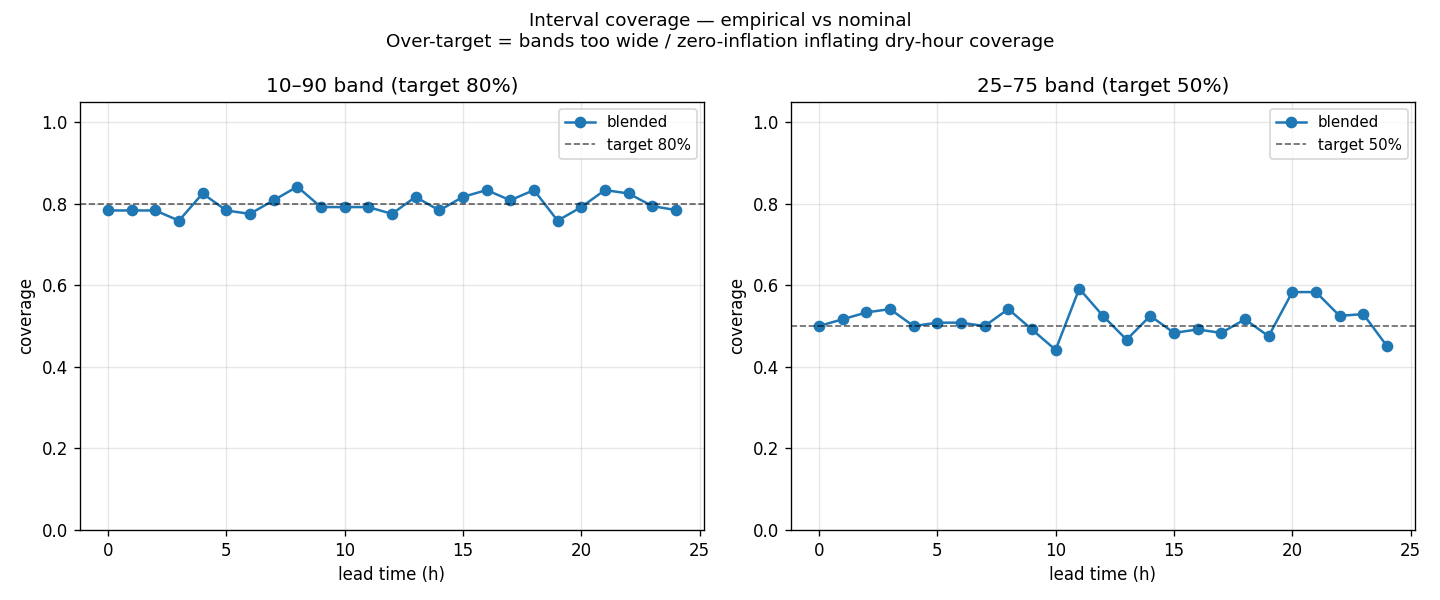
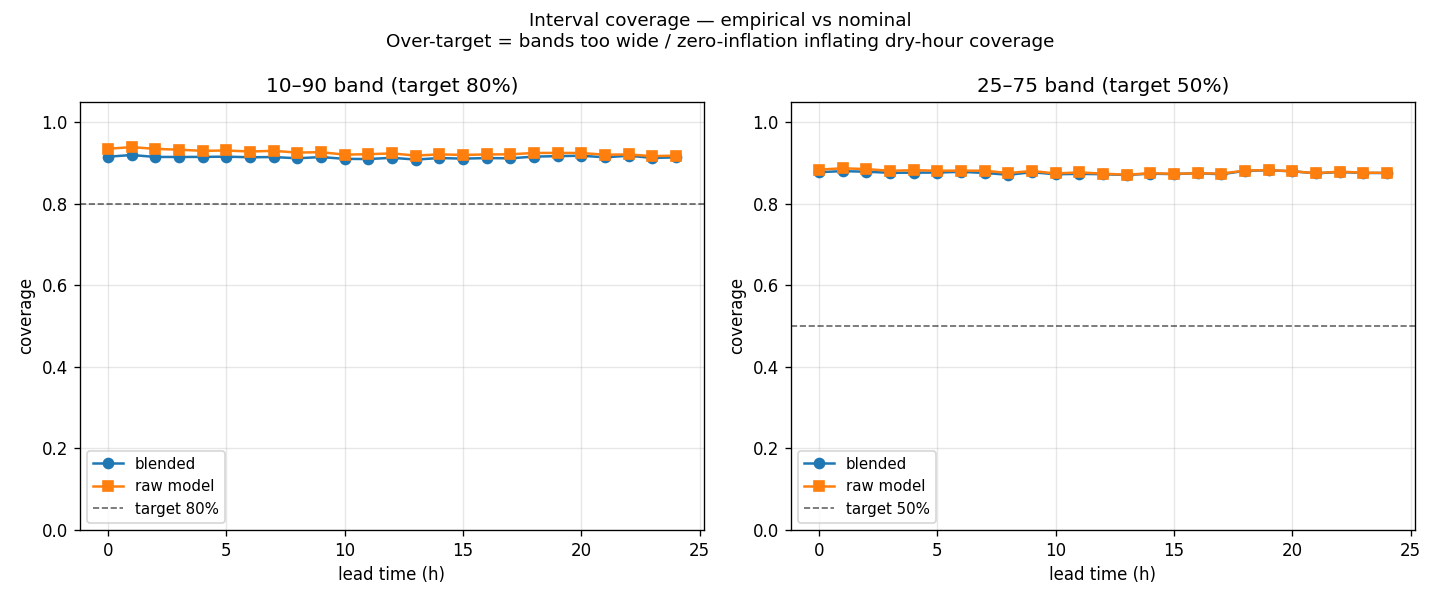
pod-ml: plume figures — rain level reference lines + readable colours
Green/purple/red dotted lines at 0.5/2.5/7.6 mm/hr with white-backed labels,
using tab palette colours distinct from the orange/blue/gray plume fills.
_add_rain_levels skips lines that are above the visible data range.

diff --git a/pod-ml/src/podml/report_ensemble.py b/pod-ml/src/podml/report_ensemble.py
@@ -166,6 +166,25 @@ def fig_trust_weights(weights: list) -> None:
     plt.close(fig)
 
 
+RAIN_LEVELS = [
+    (0.5,  "light",  "#2ca02c"),   # tab:green
+    (2.5,  "heavy",  "#9467bd"),   # tab:purple
+    (7.6,  "storm",  "#d62728"),   # tab:red
+]
+
+
+def _add_rain_levels(ax, y_max: float) -> None:
+    """Draw dotted threshold lines for light / heavy / storm rain on a plume axis."""
+    for mm, label, color in RAIN_LEVELS:
+        if mm > y_max * 1.3:
+            continue  # skip lines way above the visible data — would just crowd the top
+        ax.axhline(mm, color=color, ls=":", lw=1.5, alpha=0.9, zorder=2)
+        ax.text(0.5, mm, f" {label} ({mm} mm/hr)", color=color,
+                fontsize=6.5, va="bottom", ha="left", transform=ax.get_yaxis_transform(),
+                clip_on=True, fontweight="bold",
+                bbox=dict(facecolor="white", alpha=0.5, edgecolor="none", pad=0.5))
+
+
 def fig_plumes(plumes: list) -> None:
     """Raw vs blended vs climatology plume fans for sample endpoints. Shows blend suppression."""
     if not plumes:
@@ -180,22 +199,26 @@ def fig_plumes(plumes: list) -> None:
     for ax, pl in zip(axes, plumes[:n]):
         hs = np.array(pl["horizons"])
         y_obs = np.array(pl["y_obs"])
+        all_vals = list(np.maximum(y_obs, 0))
         for key in ["clim", "raw", "blended"]:
             if key not in pl:
                 continue
             p = pl[key]
             c = palette[key]
-            q10 = np.array(p.get("q10", p.get("q10", np.zeros_like(hs))))
+            q10 = np.array(p.get("q10", np.zeros_like(hs)))
             q25 = np.array(p.get("q25", np.zeros_like(hs)))
             q75 = np.array(p.get("q75", np.zeros_like(hs)))
             q90 = np.array(p.get("q90", np.zeros_like(hs)))
-            mu = np.array(p.get("mean", np.zeros_like(hs)))
+            mu  = np.array(p.get("mean", np.zeros_like(hs)))
             ax.fill_between(hs, np.maximum(q10, 0), np.maximum(q90, 0), alpha=0.12, color=c)
             ax.fill_between(hs, np.maximum(q25, 0), np.maximum(q75, 0), alpha=0.25, color=c)
             ax.plot(hs, np.maximum(mu, 0), "-", color=c, lw=1.5, label=labels[key])
+            all_vals.extend(np.maximum(q90, 0).tolist())
         ax.scatter(hs, np.maximum(y_obs, 0), s=14, color="black", zorder=5,
                    label="observed" if ax is axes[0] else "")
-        ax.set_ylim(bottom=0)
+        y_max = max(all_vals) if all_vals else 1.0
+        ax.set_ylim(bottom=0, top=max(y_max * 1.15, 0.6))
+        _add_rain_levels(ax, y_max)
         ax.set_xlabel("horizon (h)", fontsize=8)
         ax.set_ylabel("rain (mm/hr)", fontsize=8)
         cell = pl.get("cell", "?")
